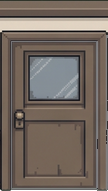
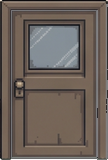
정면 문 위쪽 벽을 게임 벽 타일로 이어 그림 (몰딩·벽 색이 옆 벽과 어긋나던 문제)
문 그림에서 문틀 위쪽 벽 부분을 잘라 내고, 그 자리에 옆 벽과 같은 벽 앞면 타일을 그림. 철문도 같은 처리.

Claude-Session: https://claude.ai/code/session_01MBgVgKbFxkEXND4zuEcjdV

diff --git a/tools/sprite_cleanup/build_interior.py b/tools/sprite_cleanup/build_interior.py
@@ -258,6 +258,7 @@ FRONT_DOORS = {
     "steel_door": [(1039, 177, 445)],                                           # 철문 (늘 잠김)
     "double_door": [(1545, 98, 523), (1545, 687, 1164), (1545, 1302, 1779)],    # 이중문
 }
+FRAME_TOP = {"room_door": 73, "glass_door": 73, "steel_door": 73, "double_door": 57}   # 칸 위 ~ 문틀 위 (원본 px)
 THRESHOLD = (487, 2107, 843, 2194)
 FRONT_MAT = (1015, 2053, 1370, 2281)
 
@@ -289,6 +290,9 @@ def build_front_doors(save):
                 for j, sz in enumerate(sizes):
                     if sz > 600:   # 넓은 어둠 = 열린 문틈
                         arr[..., 3][lab == j + 1] = 150
+            # 문틀 위쪽 벽(몰딩·회벽)은 잘라 냄: 게임에서는 벽 타일을 그대로 이어 그림
+            ft = round(FRAME_TOP[name] * size[1] / WALL_CELL_H)
+            arr = arr[ft:]
             suffix = "" if len(states) == 1 else f"_{i}"
             save(name + suffix, Image.fromarray(arr, "RGBA"))
     th = Image.fromarray(key(np.array(img.crop(THRESHOLD))), "RGBA")
